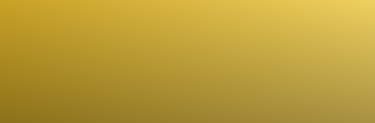
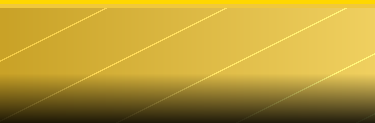
Premium Focus branding for Apple Wallet — Quick Qlub style layout
- Logo triangle doré (icon + logo PNGs)
- Strip: gold gradient premium avec shimmer + zone sombre
- Layout Quick style: POINTS header, CARTE DE + nom, hints, QR code
- Back: stats, progression dots, links (carte, discord, join), how-to
- QR code links to personalized web card

diff --git a/api/pass.py b/api/pass.py
@@ -58,7 +58,6 @@ def build_pass_json(name, pts_int, cycle, level):
     progress = f"{cycle_pts}/10"
     member_url = f"{APP_URL}?wallet_name={quote(name)}&wallet_pts={pts_int}&wallet_cycle={cycle}&wallet_level={quote(level)}"
 
-    # Barre de progression visuelle
     prog_bar = "".join(["●" if i < cycle_pts else "○" for i in range(10)])
     next_reward = 10 - cycle_pts
 
@@ -71,7 +70,6 @@ def build_pass_json(name, pts_int, cycle, level):
         "description": "Carte de fidelite Mentalite Focus",
         "logoText": "MENTALITE FOCUS",
 
-        # Or foncé premium
         "backgroundColor": "rgb(42, 32, 0)",
         "foregroundColor": "rgb(240, 208, 96)",
         "labelColor": "rgb(180, 150, 60)",
@@ -88,77 +86,74 @@ def build_pass_json(name, pts_int, cycle, level):
             "primaryFields": [
                 {
                     "key": "name",
-                    "label": level,
+                    "label": "CARTE DE",
                     "value": name
                 }
             ],
             "secondaryFields": [
                 {
-                    "key": "cycle",
-                    "label": "CYCLE",
-                    "value": f"#{cycle}"
-                },
-                {
-                    "key": "progress",
-                    "label": "PROGRESSION",
-                    "value": progress
-                },
-                {
-                    "key": "discord_front",
-                    "label": "DISCORD",
-                    "value": "discord.gg/AerNKK5zYF"
+                    "key": "hint",
+                    "label": "PLUS D'INFOS AU DOS",
+                    "value": "(avec le bouton ···)"
                 }
             ],
             "auxiliaryFields": [
                 {
-                    "key": "prog_bar",
-                    "label": "PROCHAIN REWARD",
-                    "value": f"{prog_bar}  encore {next_reward}"
+                    "key": "level_aux",
+                    "label": "NIVEAU",
+                    "value": level
+                },
+                {
+                    "key": "cycle_aux",
+                    "label": "CYCLE",
+                    "value": f"#{cycle}"
+                },
+                {
+                    "key": "prog_aux",
+                    "label": "PROGRESSION",
+                    "value": progress
                 }
             ],
             "backFields": [
                 {
-                    "key": "stats_title",
-                    "label": "━━━━ MES STATISTIQUES ━━━━",
-                    "value": f"Points totaux : {pts_int}\nCycle actuel : #{cycle}\nProgression : {progress} ({cycle_pts} lives sur 10)\nProchain reward dans : {next_reward} lives"
-                },
-                {
-                    "key": "prog_visual",
-                    "label": "PROGRESSION VISUELLE",
-                    "value": f"{prog_bar}\n{cycle_pts}/10 lives regardes ce cycle"
+                    "key": "stats",
+                    "label": "━━━  MES STATISTIQUES  ━━━",
+                    "value": f"Points : {pts_int}\nCycle : #{cycle}\nProgression : {progress}\nProchain reward : {next_reward} lives\n\n{prog_bar}"
                 },
                 {
                     "key": "card_link",
-                    "label": "━━━━ MA CARTE EN LIGNE ━━━━",
+                    "label": "━━━  MA CARTE EN LIGNE  ━━━",
                     "value": member_url,
-                    "attributedValue": f"<a href='{member_url}'>Ouvrir ma carte Focus - voir ma progression complete</a>"
+                    "attributedValue": f"<a href='{member_url}'>Ouvrir ma carte Focus</a>"
                 },
                 {
                     "key": "discord",
-                    "label": "━━━━ COMMUNAUTE ━━━━",
+                    "label": "━━━  DISCORD  ━━━",
                     "value": "https://discord.gg/AerNKK5zYF",
-                    "attributedValue": "<a href='https://discord.gg/AerNKK5zYF'>Rejoindre le Discord Focus (+2000 membres)</a>"
+                    "attributedValue": "<a href='https://discord.gg/AerNKK5zYF'>Rejoindre Focus (+2000 membres)</a>"
                 },
                 {
                     "key": "join",
-                    "label": "━━━━ ABONNEMENT ━━━━",
-                    "value": "9.90 euros/mois - Lives complets + replays + communaute",
-                    "attributedValue": "<a href='https://mentalitefocus.com/'>S'abonner a Mentalite Focus</a>"
-                },
-                {
-                    "key": "notif",
-                    "label": "━━━━ NOTIFICATIONS ━━━━",
-                    "value": "Active les notifications sur ta carte en ligne pour recevoir une alerte a chaque live en direct."
+                    "label": "━━━  ABONNEMENT  ━━━",
+                    "value": "9.90/mois",
+                    "attributedValue": "<a href='https://mentalitefocus.com/'>Rejoindre Mentalite Focus</a>"
                 },
                 {
                     "key": "howto",
-                    "label": "━━━━ COMMENT CA MARCHE ━━━━",
-                    "value": "1 live regarde = 1 point\n10 points = 1 cycle complete = 1 reward debloque\n\nRegarde les lives pour monter de niveau :\nMEMBRE → ACTIF → AVANCE → EXPERT → ELITE"
+                    "label": "━━━  COMMENT CA MARCHE  ━━━",
+                    "value": "1 live = 1 point\n10 points = 1 cycle = 1 reward\n\nNiveaux : MEMBRE → ACTIF → AVANCE → EXPERT → ELITE"
                 }
             ]
         },
 
-        "suppressStripShine": False,
+        "barcodes": [
+            {
+                "format": "PKBarcodeFormatQR",
+                "message": member_url,
+                "messageEncoding": "iso-8859-1",
+                "altText": f"FOCUS-{name[:10]}"
+            }
+        ],
     }
 
 
